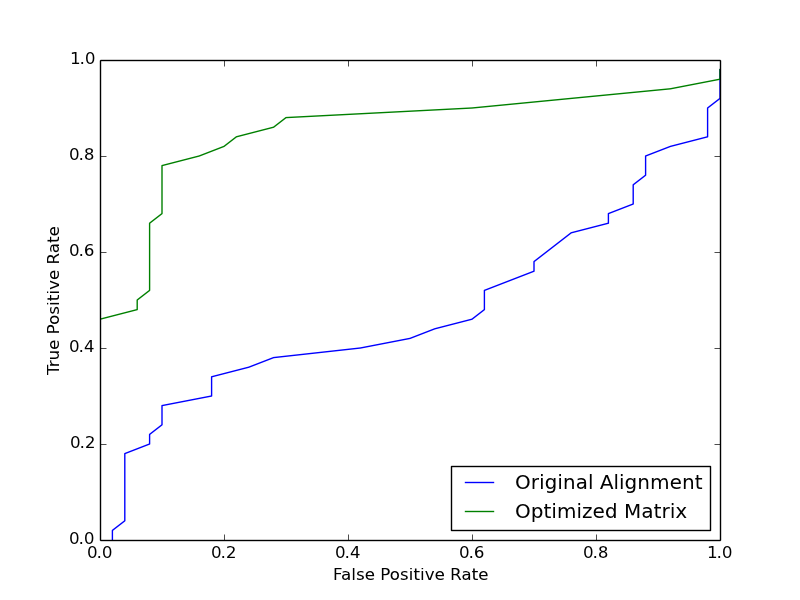
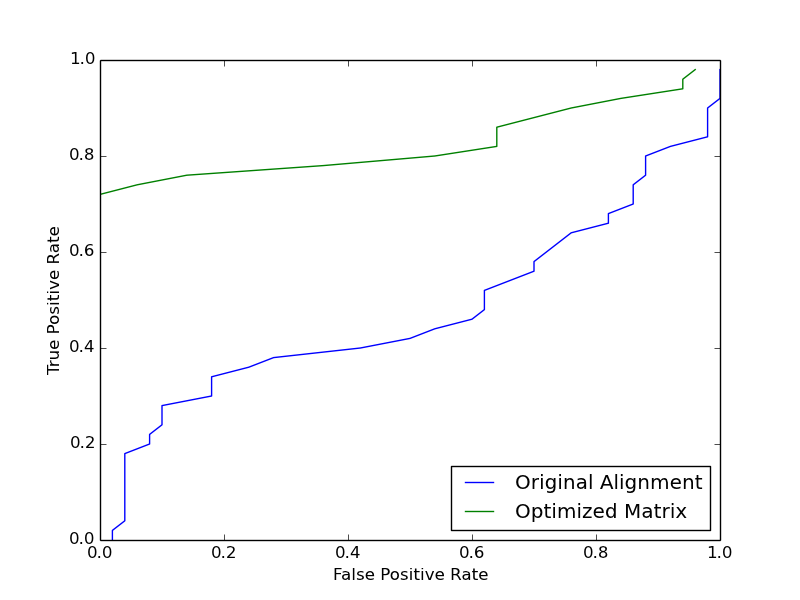
changed up count array so that we can keep track of each unique gap and populate the entire matrix with the gap penalties; but not included in actual optimization--those values are immutable
new ROC curves and matrices associated with this change

diff --git a/SmithWaterman/SW_run.py b/SmithWaterman/SW_run.py
@@ -98,21 +98,35 @@ def trace_aligned_seq(seq1, seq2, similarity_matrix, pointers, origsubMatrix, su
             seq=seq+seq2[j]
             newseq2 = newseq2 + seq2[j]
             newseq1 = newseq1+'-'
+            
             j = j-1
             if H[i,j]>0 and pointers[(i,j)] is 'diagonal':           
                 gap_open = gap_open +1
+                matchscore_dict= C[seq2[j]+'*']
+                count_array[matchscore_dict[1],matchscore_dict[2]]= count_array[matchscore_dict[1],matchscore_dict[2]] + 1         
+           
             else:
                 gapcount = gapcount+1
+                matchscore_dict= C['*'+'*']
+            
+                count_array[matchscore_dict[1],matchscore_dict[2]]= count_array[matchscore_dict[1],matchscore_dict[2]] + 1         
+           
         elif pointers[(i,j)] is 'up':
             #print 'up'
             seq=seq+seq1[i]
             newseq1 = newseq1 + seq1[i]
-            newseq2 = newseq2+'-'            
+            newseq2 = newseq2+'-'   
             i = i-1
             if H[i,j]>0 and pointers[(i,j)] is 'diagonal':            
                 gap_open = gap_open +1
+                matchscore_dict= C[seq1[i]+'*']
+                count_array[matchscore_dict[1],matchscore_dict[2]]= count_array[matchscore_dict[1],matchscore_dict[2]] + 1         
+            
             else:
                 gapcount = gapcount+1
+                matchscore_dict= C['*'+'*']
+                count_array[matchscore_dict[1],matchscore_dict[2]]= count_array[matchscore_dict[1],matchscore_dict[2]] + 1         
+           
                 
         elif pointers[(i,j)] is 'diagonal': 
             #print 'diag'
@@ -136,8 +150,8 @@ def trace_aligned_seq(seq1, seq2, similarity_matrix, pointers, origsubMatrix, su
     newseq2=newseq2[::-1]
     altscore = altscore - gap_open*7 - gapcount*3
     #print 'altscore', altscore
-    count_array[0,23] = gap_open
-    count_array[23,23]=gapcount
+    #count_array[0,23] = gap_open
+    #count_array[23,23]=gapcount
     #H[start,end]=0
     # to test ROC, average by minimum len of the compared pair
     #score = score/min(len(seq1), len(seq2))

diff --git a/SmithWaterman/optimize_submatrix.py b/SmithWaterman/optimize_submatrix.py
@@ -50,7 +50,8 @@ def obj_function(pos_scores, neg_scores):
 def generate_newsubMatrix(origsubMatrix, gap_init, gap_ext):
     
     newsubMatrix = origsubMatrix.copy()
-    newsubMatrix[0,23]=-gap_init
+    newsubMatrix[:,23]=-gap_init
+    newsubMatrix[23,:]=-gap_init
     newsubMatrix [23,23] = -gap_ext
     return newsubMatrix
 
@@ -75,8 +76,12 @@ def priority_pos_neg(pos_align_array, neg_align_array):
         priority_list.append(max_indices)
         max = abs_cumul[max_indices]
         abs_cumul[max_indices]=0
-    print priority_list
-    return priority_list
+    delete_list = []
+    for i in range(0,24):
+        delete_list.append((23,i))
+        delete_list.append((i,23))
+    new_priority_list =[x for x in priority_list if x not in delete_list]
+    return new_priority_list
 
 def optimization(priority_list, origsubMatrix, pos_align, neg_align, delta, epsilon, max_itr):
     #delta = amount to vary values in subMatrix
@@ -165,7 +170,7 @@ def main():
     #pos_scores=np.load(home+'pos_scores.npy')
     
     [new_pos_scores, new_neg_scores, posgaps, neggaps] = calc_new_scores(pos_align_array, neg_align_array, origSubMatrix)
-    
+
     #generate priority of values in the scoring matrix to change
     priority_list = priority_pos_neg(pos_align_array, neg_align_array)
     
@@ -173,6 +178,7 @@ def main():
     [bestMatrix, best_obj_func] = optimization(priority_list, origSubMatrix, pos_align_array, neg_align_array, 1, .3, 10)
     print bestMatrix
     print best_obj_func
+    
     np.save(home+'bestMatrix',bestMatrix)
     
     np.savetxt(home+'bestMatrix.txt', bestMatrix, fmt ='%+.2d', delimiter = '   ', header = ' A    R    N    D    C    Q    E    G    H    I    L    K    M    F    P    S    T    W    Y    V    B    Z    X    *')
@@ -184,6 +190,7 @@ def main():
     #print len(optimized_subMatrix_dict.keys())
     #print np.transpose(optimized_subMatrix_dict.keys())
     [opt_pos_scores, opt_neg_scores, posgaps, neggaps] = calc_new_scores(pos_align_array, neg_align_array, optimized_Matrix)
+    
     
     
     orig_ROC_array = ROC.ROC_graph(new_pos_scores, new_neg_scores)
